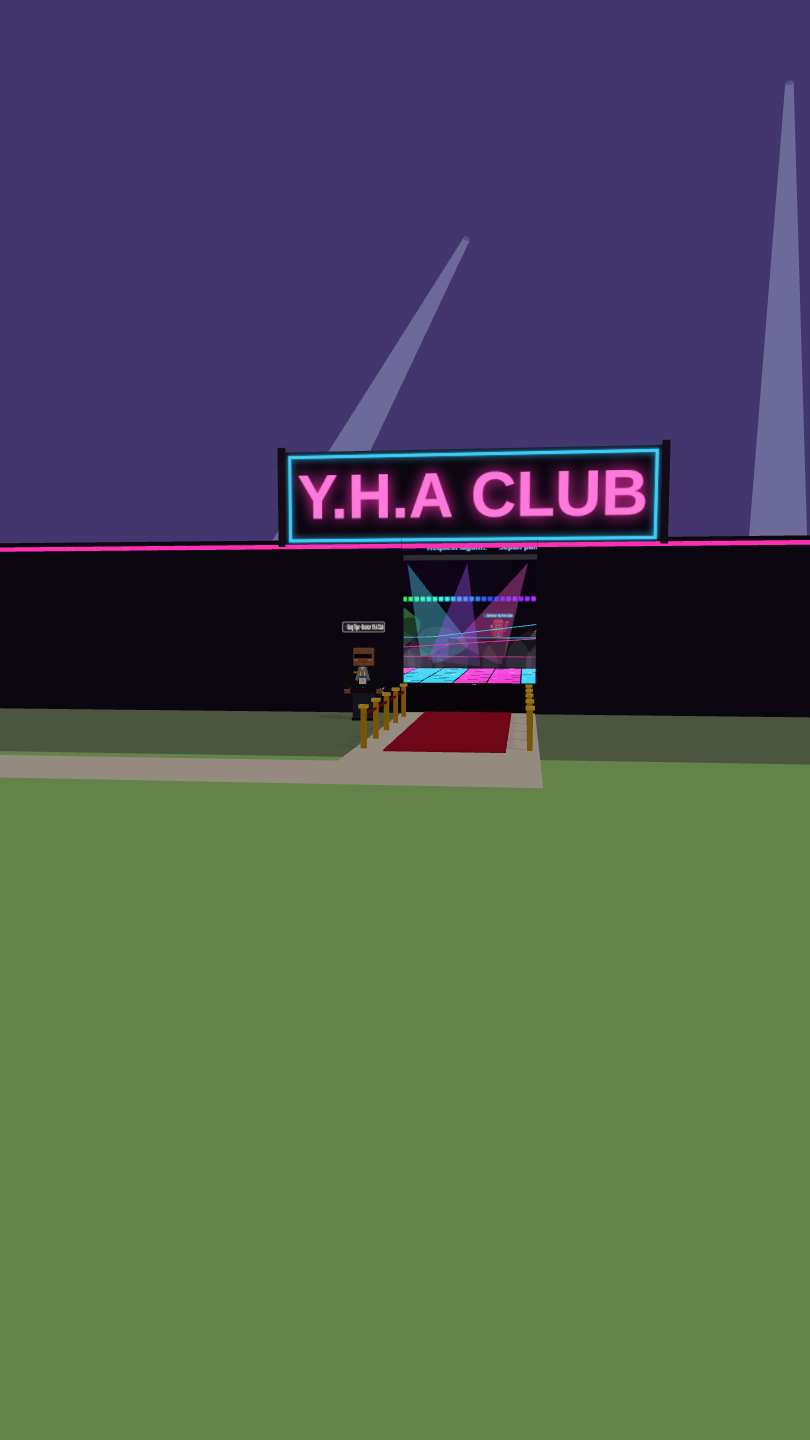
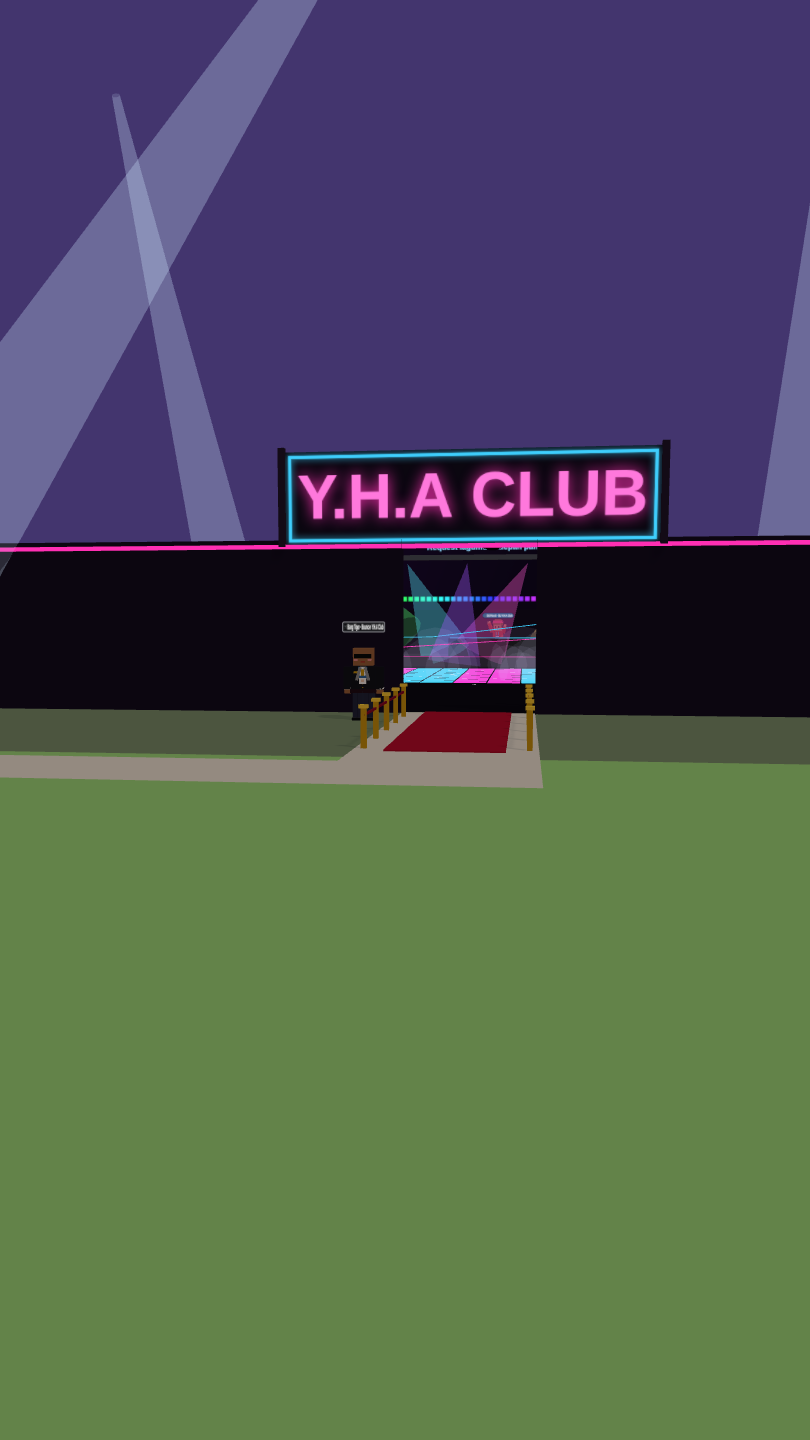
Video 8: cover fokus grand opening Y.H.A Club dengan kru club (DJ, bartender, bouncer) + naskah VO
Claude-Session: https://claude.ai/code/session_018nEvgCsWEZbcDggzuom35W

diff --git a/konten/video-remotion/rekam-cover.js b/konten/video-remotion/rekam-cover.js
@@ -18,9 +18,11 @@ const COVER = {
   club: {
     jam: '2026-11-28T20:05:00+07:00',
     latar: { x: 64, z: 34, yaw: Math.PI + 0.12, pitch: 0.1, jarak: 14, y: 4.2 },
+    // kru Y.H.A Club (tampilan sama dengan karyawan.js): Mas Kevin · DJ Rendi · Bang Tigor
     tokoh: [
-      { look: { s: 'p', at: 'gaun', wa: 1, r: 1, w: 4, tl: 'antingBulat' }, a: 5, x: -0.42, ry: 0.45 },
-      { look: { s: 'l', at: 'kemeja', wa: 5, r: 4, lh: 'dasiKupu' }, a: 0, x: 0.42, ry: -0.45 },
+      { look: { s: 'l', at: 'kemeja', wa: 9, bw: 'bahan', sp: 'pantofel', r: 4, k: 1, lh: 'dasiKupu' }, a: 5, x: -0.78, ry: 0.4, z: -0.1 },
+      { look: { s: 'l', at: 'hoodie', wa: 8, bw: 'jogger', sp: 'sneakers', r: 7, w: 2, k: 2, tl: 'headset', kp: 'topi' }, a: 7, x: 0, ry: 0, z: 0.2 },
+      { look: { s: 'l', at: 'jasDir', bw: 'bahan', sp: 'pantofel', r: 3, k: 3, mt: 'hitam' }, a: 0, x: 0.8, ry: -0.4, z: -0.1, sk: 1.12 },
     ],
   },
   pegawai: {
@@ -69,7 +71,7 @@ const COVER = {
       const S = o => ({ v: 2, k: 1, r: 0, w: 0, wa: 0, wb: 0, at: 'kaos', bw: 'chino', sp: 'sneakers', kp: '', mt: '', tl: '', lh: '', tg: '', ef: '', ...o });
       for (const t of tokoh) {
         const g = buatKarakter(S(t.look), { peran: 'pengunjung' });
-        g.position.set(t.x, 0, t.z || 0); g.rotation.y = t.ry;
+        g.position.set(t.x, 0, t.z || 0); g.rotation.y = t.ry; if (t.sk) g.scale.setScalar(t.sk);
         for (let i = 0; i < 20; i++) pose(g, t.a, 0.08);
         sc.add(g);
       }
